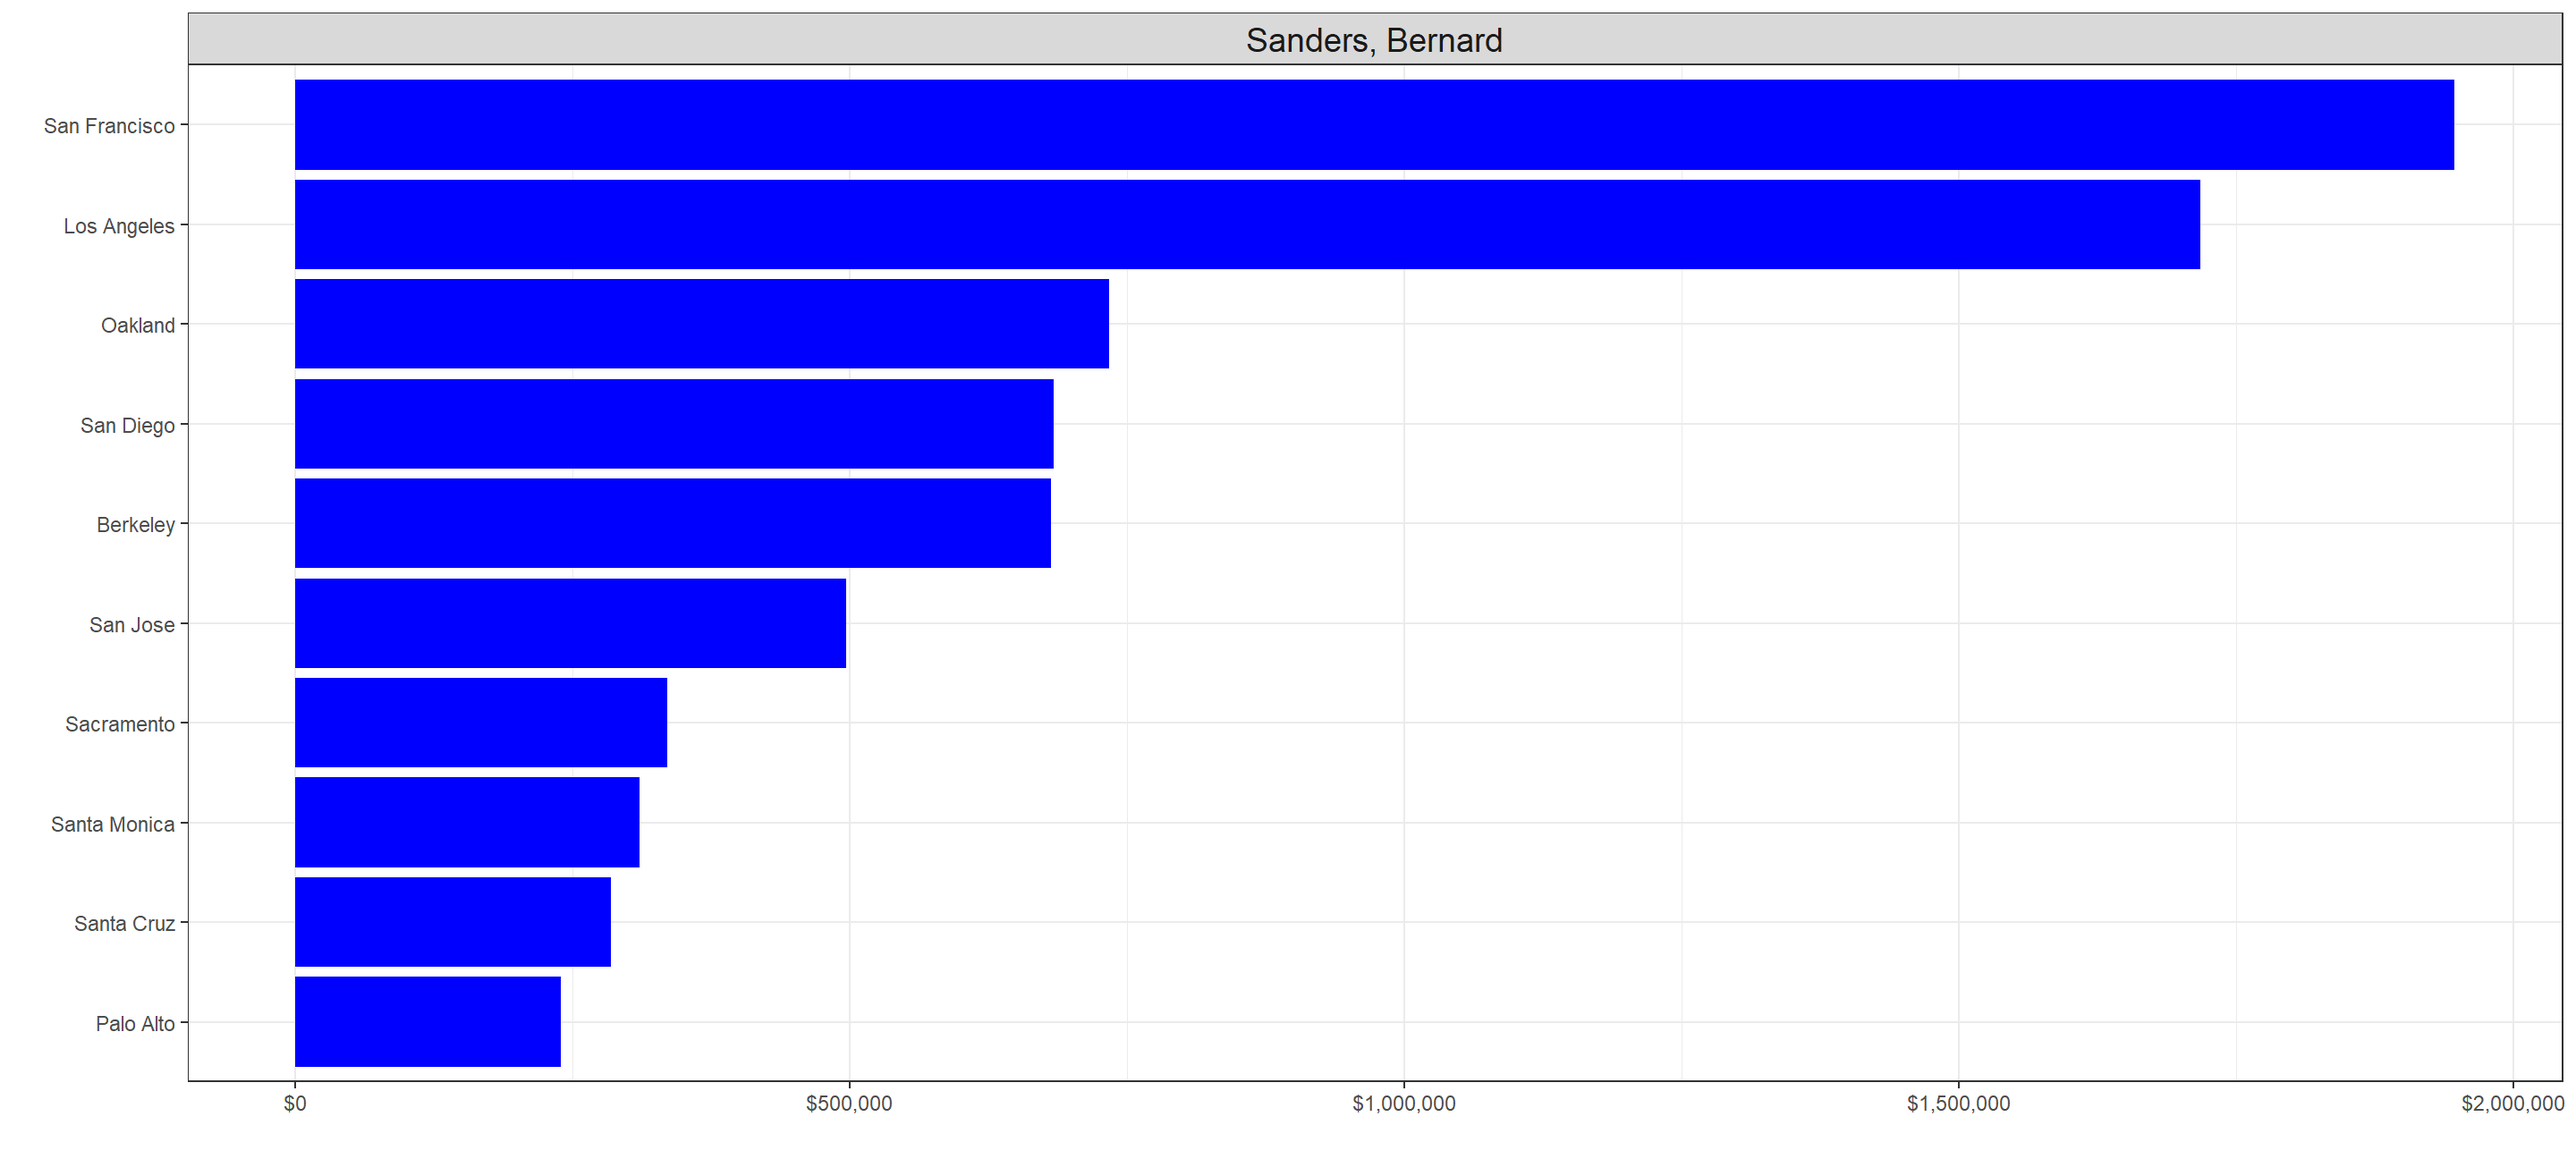
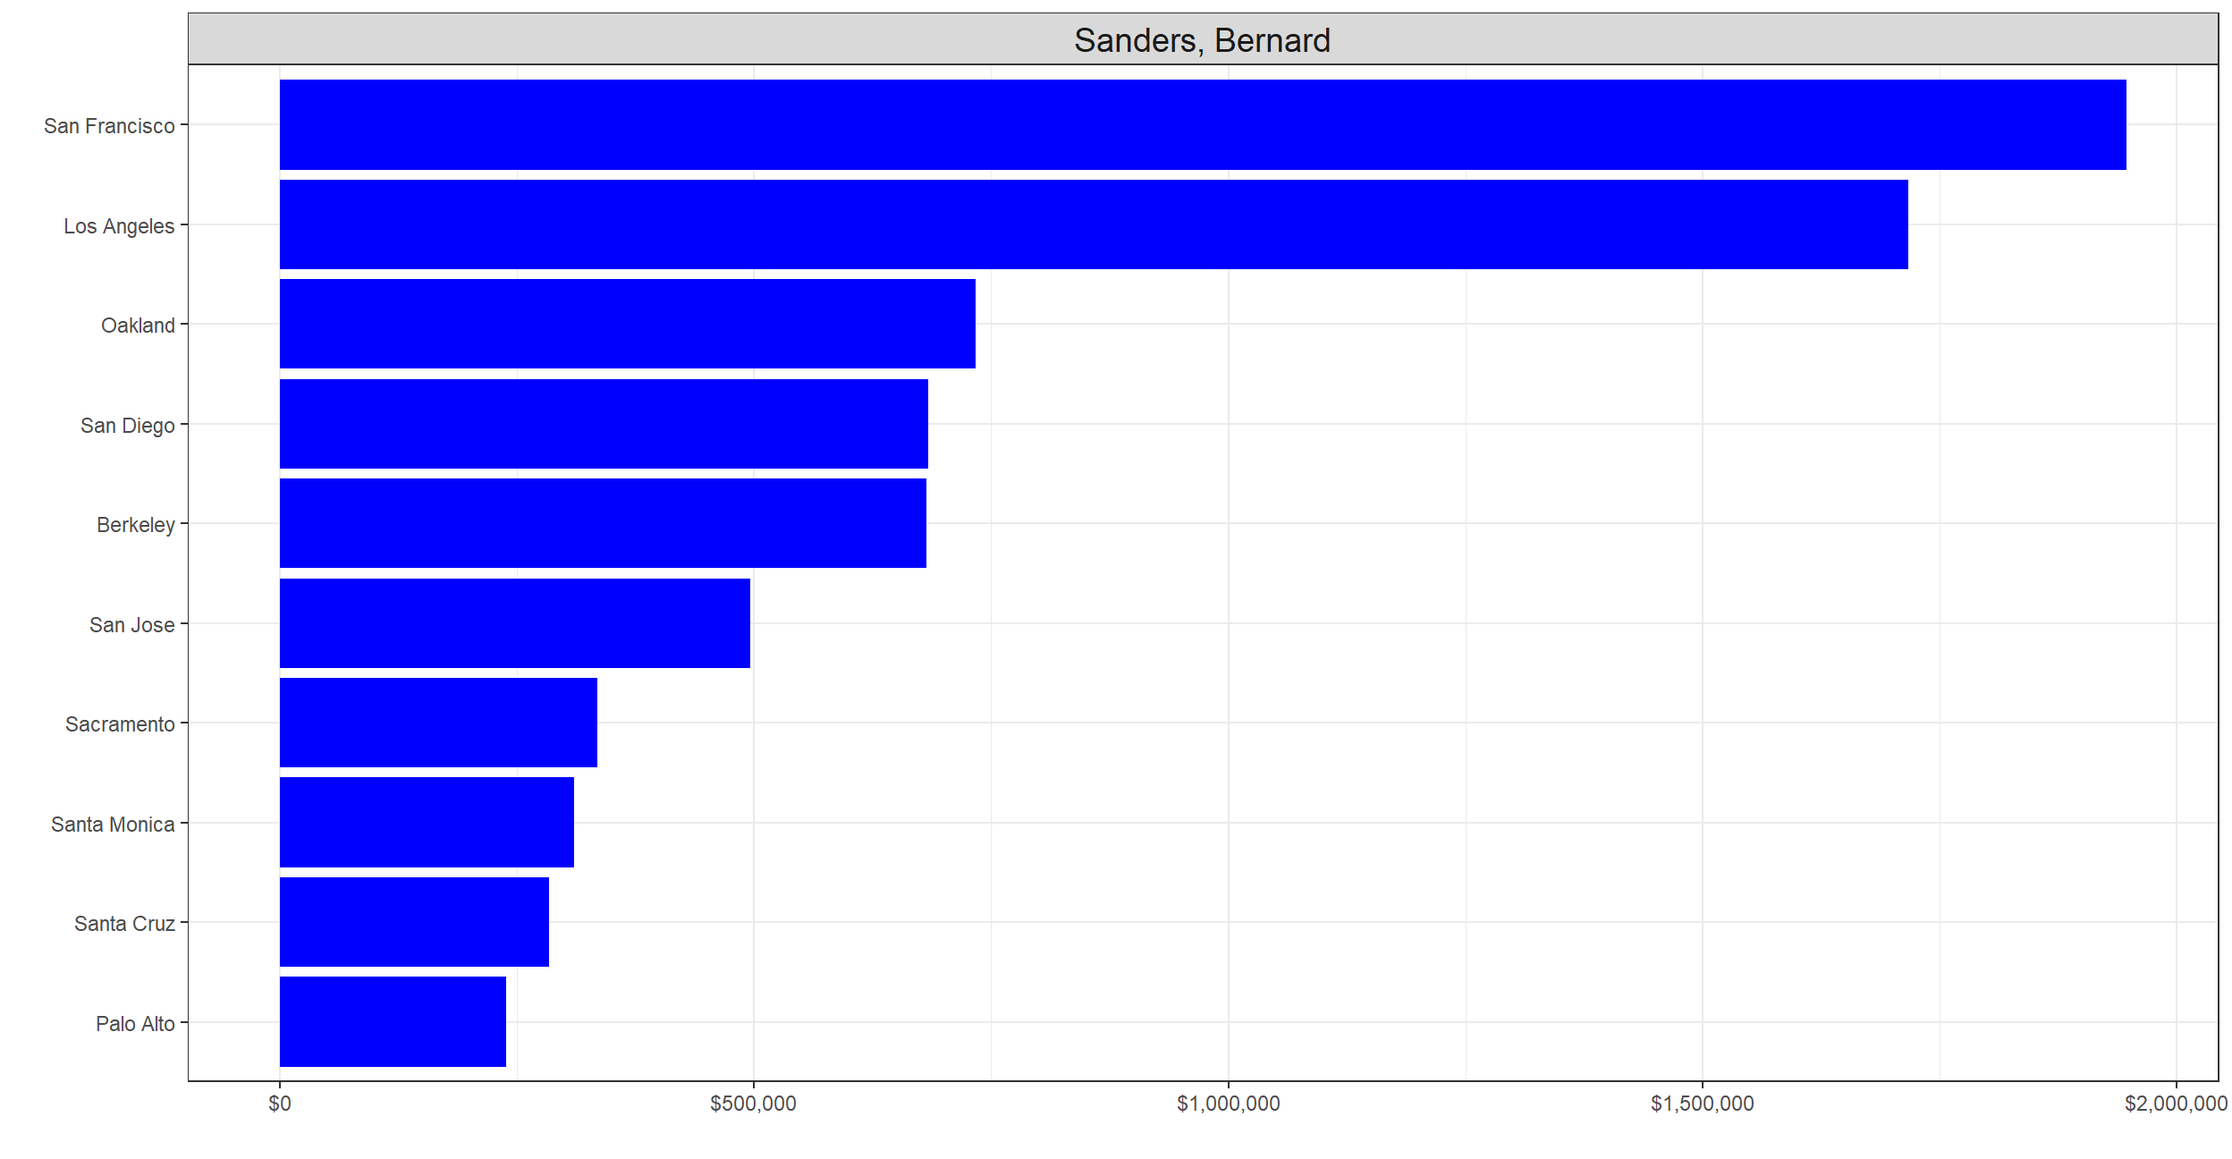
renz

diff --git a/content/projects/project4/index.html b/content/projects/project4/index.html
@@ -128,65 +128,62 @@ my_CA_2016 &lt;- merge(CA_2016, my_zip, by = &quot;zip&quot;, all.x=TRUE)</code>
 <h3>1) Clinton, Hillary Rodham</h3>
 <p>The 2016 presidential campaign of Hillary Clinton was announced in a YouTube video, on April 12, 2015. Hillary Clinton was the 67th United States Secretary of State and served during the first term of the Obama administration, 2009 to 2013. She was previously a United States Senator from New York, 2001 to 2009, and is the wife of former President Bill Clinton, serving as First Lady of the United States from 1993 to 2001.</p>
 <p>Clinton’s main competitor in the 2016 Democratic primary election was Vermont Senator Bernie Sanders. She received the most support from middle aged and older voters, and from black, Latino, and older female voters. She focused her platform on several issues, including expanding racial, LGBT, and women’s rights, raising wages and ensuring equal pay for women, and improving healthcare.</p>
-<p>Clinton conceded the 2016 presidential election to Republican Donald Trump on November 9 after media outlets declared Trump had exceeded the 270 electoral college vote threshold needed to win the election and ending the campaign.
-<img src="index_files/figure-html/unnamed-chunk-3-1.png" width="1440" style="display: block; margin: auto;" /></p>
+<p>Clinton conceded the 2016 presidential election to Republican Donald Trump on November 9 after media outlets declared Trump had exceeded the 270 electoral college vote threshold needed to win the election and ending the campaign.</p>
+<p><img src="index_files/figure-html/unnamed-chunk-3-1.png" width="1248" style="display: block; margin: auto;" /></p>
 </div>
 <div id="sanders-bernard" class="section level3">
 <h3>2) Sanders, Bernard</h3>
 <p>Sanders’s chief competitor for the nomination was Hillary Clinton, a former secretary of state. Sanders drew large crowds to his speaking events and his populist and social democratic politics won him particular support among Americans under 40. He performed strongly with white voters, but consistently trailed Clinton by 30 or more percentage points among black voters; polls showed a close race among Hispanic voters.</p>
 <p>Sanders focused on income and wealth inequality, which he argued is eroding the American middle class, and on campaign finance reform. Unlike most other major presidential candidates, Sanders eschewed an unlimited super PAC, instead choosing to receive most of his funding from direct individual campaign donations.In September 2015, The New York Times reported that the campaign had received one million individual donations, becoming the first in 2015 to reach that threshold. Sanders raised $20,000,000 in the month of January 2016, $5,000,000 more than Clinton during the same time period, with an average donation of $27. Sanders frequently mentioned this $27 figure on the campaign trail as proof of his grassroots support.</p>
 <p>Following the final primary election (the District of Columbia’s, on June 14), Clinton became the presumptive Democratic nominee. Sanders did then endorse Clinton, and said he would work with her to defeat the presumptive Republican nominee, Donald Trump.</p>
-<p><img src="index_files/figure-html/unnamed-chunk-4-1.png" width="1440" style="display: block; margin: auto;" /></p>
+<p><img src="index_files/figure-html/unnamed-chunk-4-1.png" width="1248" style="display: block; margin: auto;" /></p>
 </div>
 <div id="trump-donald-j." class="section level3">
 <h3>3) Trump, Donald J.</h3>
 <p>The 2016 presidential campaign of Donald Trump was formally launched on June 16, 2015, at Trump Tower in New York City. Trump was the Republican nominee for President of the United States in the 2016 election, having won the most state primaries, caucuses, and delegates at the 2016 Republican National Convention. He chose Mike Pence, the sitting Governor of Indiana, as his vice presidential running mate. On November 8, 2016, Trump and Pence were elected president and vice president of the United States. Trump’s populist positions in opposition to illegal immigration and various trade agreements, such as the Trans-Pacific Partnership, earned him support especially among voters who were male, white, blue-collar, working class, and those without college degrees.</p>
-<p><img src="index_files/figure-html/unnamed-chunk-5-1.png" width="1440" style="display: block; margin: auto;" /></p>
+<p><img src="index_files/figure-html/unnamed-chunk-5-1.png" width="1248" style="display: block; margin: auto;" /></p>
 </div>
 <div id="cruz-rafael-edward-ted" class="section level3">
 <h3>4) Cruz, Rafael Edward ‘Ted’</h3>
-<p>The 2016 presidential campaign of Ted Cruz, the junior United States Senator from Texas, was announced on March 23, 2015. He was a candidate for the Republican Party’s 2016 presidential nomination and won the second-most state contests and delegates. Cruz themed his campaign around being an outsider and a strict conservative. In the crowded early field, he chose not to directly confront the leading candidate, Donald Trump, who was also viewed as an outsider candidate. His cordial and sympathetic tone towards Trump contrasted with the more critical approach of rivals such as Jeb Bush, Marco Rubio, and Rand Paul. Had Cruz been elected, he would have been the first Cuban American U.S. president and the first U.S. president born outside of the United States or the Thirteen Colonies.
-<img src="index_files/figure-html/unnamed-chunk-6-1.png" width="1440" style="display: block; margin: auto;" /></p>
+<p>The 2016 presidential campaign of Ted Cruz, the junior United States Senator from Texas, was announced on March 23, 2015. He was a candidate for the Republican Party’s 2016 presidential nomination and won the second-most state contests and delegates. Cruz themed his campaign around being an outsider and a strict conservative. In the crowded early field, he chose not to directly confront the leading candidate, Donald Trump, who was also viewed as an outsider candidate. His cordial and sympathetic tone towards Trump contrasted with the more critical approach of rivals such as Jeb Bush, Marco Rubio, and Rand Paul. Had Cruz been elected, he would have been the first Cuban American U.S. president and the first U.S. president born outside of the United States or the Thirteen Colonies.</p>
+<p><img src="index_files/figure-html/unnamed-chunk-6-1.png" width="1248" style="display: block; margin: auto;" /></p>
 </div>
 <div id="rubio-marco" class="section level3">
 <h3>5) Rubio, Marco</h3>
-<p>The 2016 presidential campaign of Marco Rubio, who is currently the senior United States senator from Florida, was formally announced on April 13, 2015, at an event at the Freedom Tower in Downtown Miami. Early polling showed Rubio, who was considered a potential candidate for Vice President by Republican presidential nominee Mitt Romney in 2012, as a frontrunner candidate for the Republican nomination for president of the United States in 2016 since at least the end of the 2012 election. Rubio was the second Cuban American to run for president of the United States, with Republican Ted Cruz announcing his campaign three weeks earlier. He suspended his campaign on March 15, 2016, after finishing second in Florida’s primary.
-<img src="index_files/figure-html/unnamed-chunk-7-1.png" width="1440" style="display: block; margin: auto;" /></p>
+<p>The 2016 presidential campaign of Marco Rubio, who is currently the senior United States senator from Florida, was formally announced on April 13, 2015, at an event at the Freedom Tower in Downtown Miami. Early polling showed Rubio, who was considered a potential candidate for Vice President by Republican presidential nominee Mitt Romney in 2012, as a frontrunner candidate for the Republican nomination for president of the United States in 2016 since at least the end of the 2012 election. Rubio was the second Cuban American to run for president of the United States, with Republican Ted Cruz announcing his campaign three weeks earlier. He suspended his campaign on March 15, 2016, after finishing second in Florida’s primary.</p>
+<p><img src="index_files/figure-html/unnamed-chunk-7-1.png" width="1248" style="display: block; margin: auto;" /></p>
 </div>
 <div id="bush-jeb" class="section level3">
 <h3>6) Bush, Jeb</h3>
-<p>The 2016 presidential campaign of Jeb Bush, the 43rd Governor of Florida, was formally launched on June 15, 2015, coming six months after announcing the formal exploration of a candidacy for the 2016 Republican nomination for the President of the United States on December 16, 2014, and the formation of the Right to Rise PAC. On February 20, 2016, Bush announced his intention to drop out of the presidential race following the South Carolina primary. Had Bush been elected, he would have been the first president from Florida and the first sibling of a U.S. president (George W. Bush) to win the presidency himself.
-<img src="index_files/figure-html/unnamed-chunk-8-1.png" width="1440" style="display: block; margin: auto;" /></p>
+<p>The 2016 presidential campaign of Jeb Bush, the 43rd Governor of Florida, was formally launched on June 15, 2015, coming six months after announcing the formal exploration of a candidacy for the 2016 Republican nomination for the President of the United States on December 16, 2014, and the formation of the Right to Rise PAC. On February 20, 2016, Bush announced his intention to drop out of the presidential race following the South Carolina primary. Had Bush been elected, he would have been the first president from Florida and the first sibling of a U.S. president (George W. Bush) to win the presidency himself.</p>
+<p><img src="index_files/figure-html/unnamed-chunk-8-1.png" width="1248" style="display: block; margin: auto;" /></p>
 </div>
 <div id="carson-benjamin-s." class="section level3">
 <h3>7) Carson, Benjamin S.</h3>
-<p>The 2016 presidential campaign of Ben Carson, a pediatric neurosurgeon and bestselling author, was announced May 3, 2015, in an interview with a local television station in Cincinnati, Ohio. He formally announced his candidacy for the Republican nomination in the 2016 presidential election at a rally in his hometown of Detroit on May 4, 2015. On March 4, 2016, Carson officially ended his campaign in a speech at CPAC. He endorsed Donald Trump on March 11.After Trump won the general election, he selected Carson to be his Secretary of Housing and Urban Development, with Carson announcing an additional administration role overseeing the repeal and replacement of the Patient Protection and Affordable Care Act.
-<img src="index_files/figure-html/unnamed-chunk-9-1.png" width="1440" style="display: block; margin: auto;" /></p>
+<p>The 2016 presidential campaign of Ben Carson, a pediatric neurosurgeon and bestselling author, was announced May 3, 2015, in an interview with a local television station in Cincinnati, Ohio. He formally announced his candidacy for the Republican nomination in the 2016 presidential election at a rally in his hometown of Detroit on May 4, 2015. On March 4, 2016, Carson officially ended his campaign in a speech at CPAC. He endorsed Donald Trump on March 11.After Trump won the general election, he selected Carson to be his Secretary of Housing and Urban Development, with Carson announcing an additional administration role overseeing the repeal and replacement of the Patient Protection and Affordable Care Act.</p>
+<p><img src="index_files/figure-html/unnamed-chunk-9-1.png" width="1248" style="display: block; margin: auto;" /></p>
 </div>
 <div id="kasich-john-r." class="section level3">
 <h3>8) Kasich, John R.</h3>
-<p>The 2016 presidential campaign of John Kasich, the 69th Governor of Ohio, was announced on July 21, 2015. He was a candidate for the 2016 Republican Party presidential nomination. He earned 154 delegates and won only one contest, his home state, Ohio. Kasich suspended his campaign on May 4, 2016, one day after becoming the last major challenger to Donald Trump for the nomination. Kasich vied to become the first Pennsylvania native to hold the office since James Buchanan in 1856, as well as the first from the city of Pittsburgh to do so.
-<img src="index_files/figure-html/unnamed-chunk-10-1.png" width="1440" style="display: block; margin: auto;" /></p>
+<p>The 2016 presidential campaign of John Kasich, the 69th Governor of Ohio, was announced on July 21, 2015. He was a candidate for the 2016 Republican Party presidential nomination. He earned 154 delegates and won only one contest, his home state, Ohio. Kasich suspended his campaign on May 4, 2016, one day after becoming the last major challenger to Donald Trump for the nomination. Kasich vied to become the first Pennsylvania native to hold the office since James Buchanan in 1856, as well as the first from the city of Pittsburgh to do so.</p>
+<p><img src="index_files/figure-html/unnamed-chunk-10-1.png" width="1248" style="display: block; margin: auto;" /></p>
 </div>
 <div id="fiorina-carly" class="section level3">
 <h3>9) Fiorina, Carly</h3>
 <p>The 2016 presidential campaign of Carly Fiorina was announced in a video message posted on May 4, 2015. Fiorina was formerly chief executive officer of the technology company Hewlett-Packard, and was the Republican nominee for U.S. Senate in California in 2010.</p>
-<p>Fiorina suspended her campaign for the Republican presidential nomination on February 10, 2016. On April 27, 2016, Ted Cruz announced that Fiorina would be his running mate should he win the nomination. She joined his campaign days before the Indiana Primary, which he lost. Cruz suspended his campaign that evening, effectively ending Fiorina’s vice-presidential bid.
-<img src="index_files/figure-html/unnamed-chunk-11-1.png" width="1440" style="display: block; margin: auto;" /></p>
+<p>Fiorina suspended her campaign for the Republican presidential nomination on February 10, 2016. On April 27, 2016, Ted Cruz announced that Fiorina would be his running mate should he win the nomination. She joined his campaign days before the Indiana Primary, which he lost. Cruz suspended his campaign that evening, effectively ending Fiorina’s vice-presidential bid.</p>
+<p><img src="index_files/figure-html/unnamed-chunk-11-1.png" width="1248" style="display: block; margin: auto;" /></p>
 </div>
 <div id="paul-rand" class="section level3">
 <h3>10) Paul, Rand</h3>
 <p>The 2016 presidential campaign of Rand Paul, the junior United States Senator from Kentucky, was announced on April 7, 2015 at an event at the Galt House in Louisville, Kentucky. First elected to the U.S. Senate in the 2010 election, Paul’s candidacy for the Republican nomination for President of the United States in 2016 had been widely speculated since early 2013.</p>
-<p>Paul suspended his campaign on February 3, 2016.
-<img src="index_files/figure-html/unnamed-chunk-12-1.png" width="1440" style="display: block; margin: auto;" /></p>
+<p>Paul suspended his campaign on February 3, 2016.</p>
+<p><img src="index_files/figure-html/unnamed-chunk-12-1.png" width="1248" style="display: block; margin: auto;" /></p>
 </div>
 </div>
 <div id="conclusive-graph" class="section level2">
 <h2>Conclusive graph</h2>
 <p>Finally, let us merge all the charts together into a single one.</p>
-<pre class="r"><code>p_final &lt;- (p_clinton | p_sanders | p_trump | p_cruz | p_rubio) / (p_bush | p_carson | p_kasich | p_fiorina | p_paul) + plot_annotation(title = &quot;Where did candidates raise most money?&quot;, theme=theme(plot.title = element_text(size = 20, face=&quot;bold&quot;))) + plot_annotation(caption = &quot;Amount raised&quot;, theme=theme(plot.caption = element_text(size = 16, face=&quot;bold&quot;, hjust = 0.5))) + facet_wrap(~&quot;Clinton, Hillary Rodham&quot;)+ theme(strip.text =element_text(size=16))
-
-print(p_final)</code></pre>
 <p><img src="index_files/figure-html/unnamed-chunk-13-1.png" width="2880" style="display: block; margin: auto;" /></p>
 </div>
 </div>
